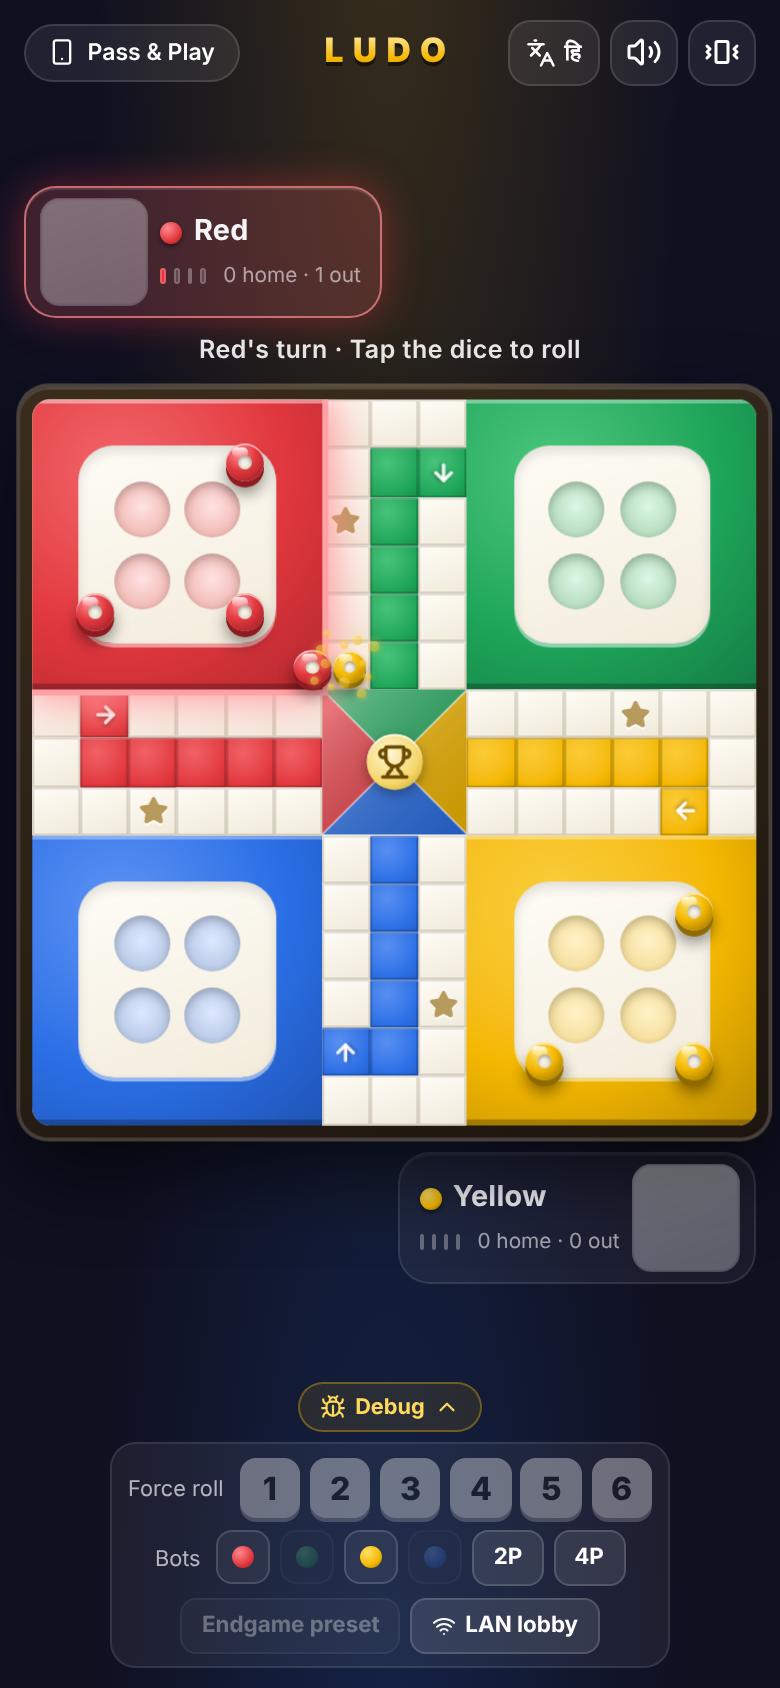
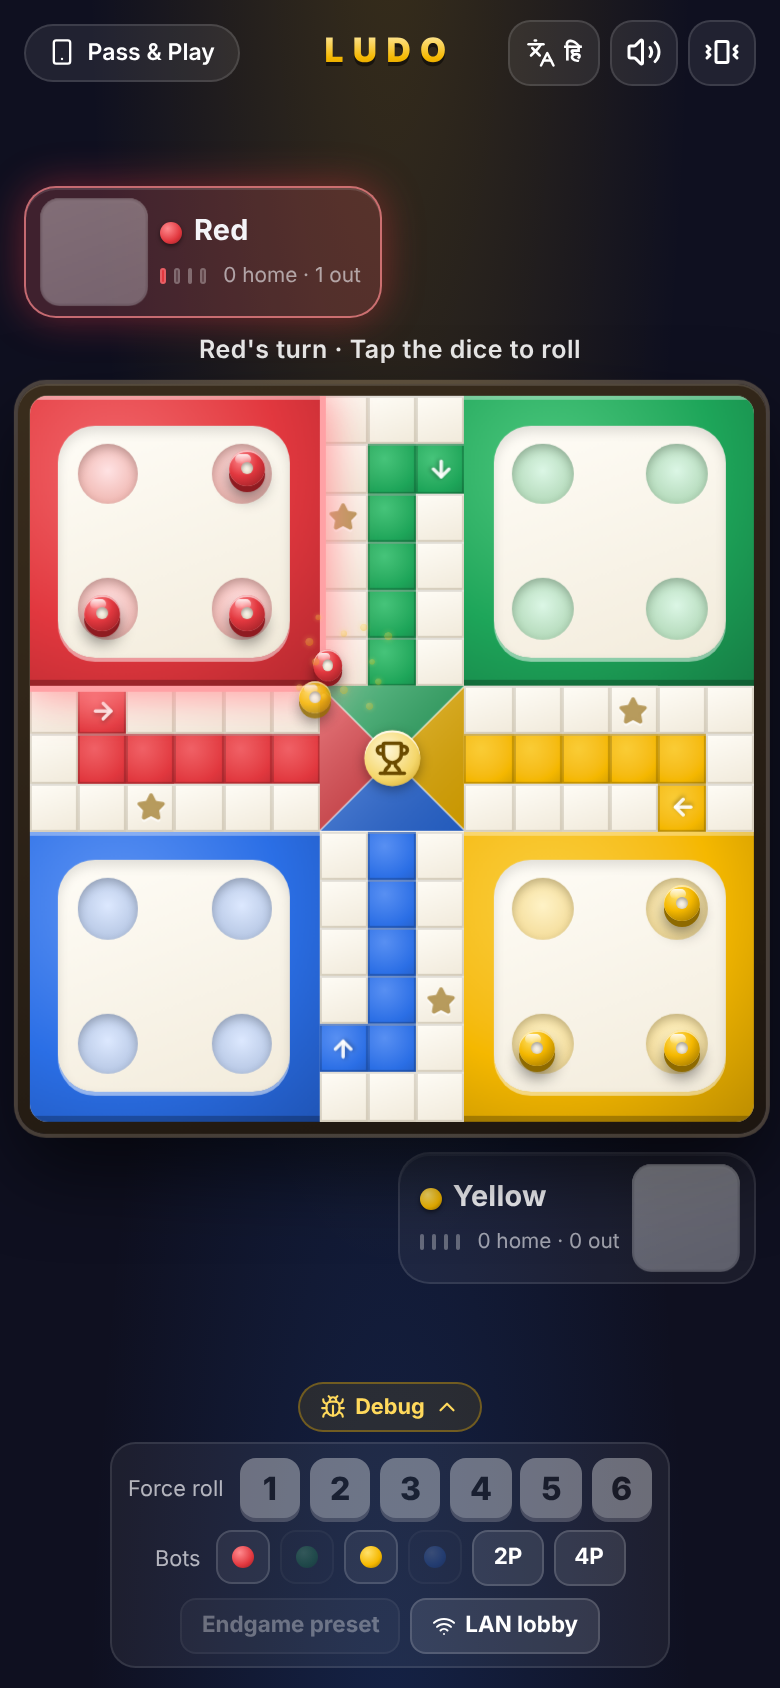
fix: token layer shares the grid box so tokens sit exactly on their cells
The layer covered the board frame padding too, shifting every token up-left by
the padding and scaling cell size slightly; it now lives inside the grid box.

Claude-Session: https://claude.ai/code/session_013hCGS2KGtQcJGiiJ6uYKck

Changed region(s): [[0.0, 0.2156, 1.0, 0.6777]]

diff --git a/ui/src/components/board/LudoBoard.vue b/ui/src/components/board/LudoBoard.vue
@@ -33,30 +33,34 @@ const gridStyle = {
     role="img"
     aria-label="Ludo board"
   >
-    <div
-      class="board__grid"
-      :style="gridStyle"
-    >
-      <BoardYard
-        v-for="color in COLORS"
-        :key="color"
-        :color="color"
-        :active="color === props.activeColor"
+    <!-- The token layer must share the grid's exact box (inside the frame padding),
+         otherwise every token drifts by the padding and a slightly wrong cell size. -->
+    <div class="board__inner">
+      <div
+        class="board__grid"
+        :style="gridStyle"
+      >
+        <BoardYard
+          v-for="color in COLORS"
+          :key="color"
+          :color="color"
+          :active="color === props.activeColor"
+        />
+        <BoardCell
+          v-for="c in pathCells"
+          :key="c.key"
+          :cell="c.cell"
+          :info="c.info"
+        />
+        <CenterHub />
+      </div>
+      <TokenLayer
+        :players="props.players"
+        :movable="props.movable"
+        :current-color="props.activeColor"
+        @select="emit('select', $event)"
       />
-      <BoardCell
-        v-for="c in pathCells"
-        :key="c.key"
-        :cell="c.cell"
-        :info="c.info"
-      />
-      <CenterHub />
     </div>
-    <TokenLayer
-      :players="props.players"
-      :movable="props.movable"
-      :current-color="props.activeColor"
-      @select="emit('select', $event)"
-    />
   </div>
 </template>
 
@@ -72,6 +76,11 @@ const gridStyle = {
     0 0 0 2px rgba(255, 220, 160, 0.25),
     0 18px 40px rgba(0, 0, 0, 0.6),
     inset 0 1px 0 rgba(255, 255, 255, 0.15);
+}
+.board__inner {
+  position: relative;
+  width: 100%;
+  height: 100%;
 }
 .board__grid {
   display: grid;
